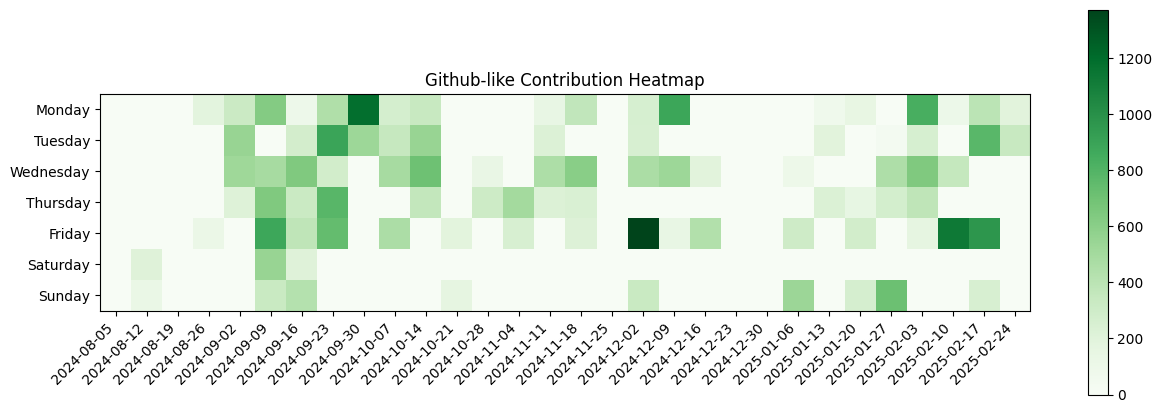
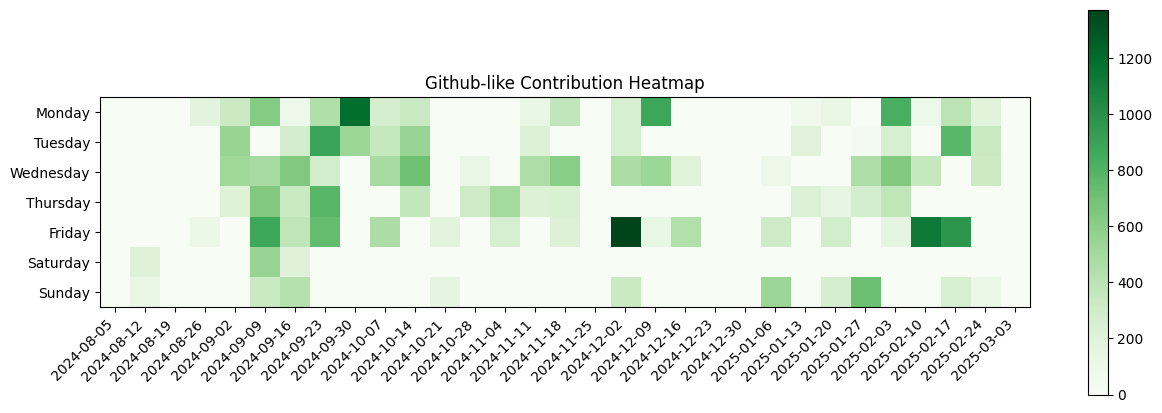
Update

diff --git a/README.md b/README.md
@@ -88,4 +88,6 @@
 20250223 249.87 (4.75-1.13)*69
 20250224 191.23 (6.75-0.77)*32
 20250225 264.24 (7.05-0.76)*42   67.93 (6.31-2.07)*16
+20250226 142.66 (6.10-1.34)*30   170.53 (6.64-1.47)*33
+20250302 107.71 (4.66-1.29)*32
 ```
